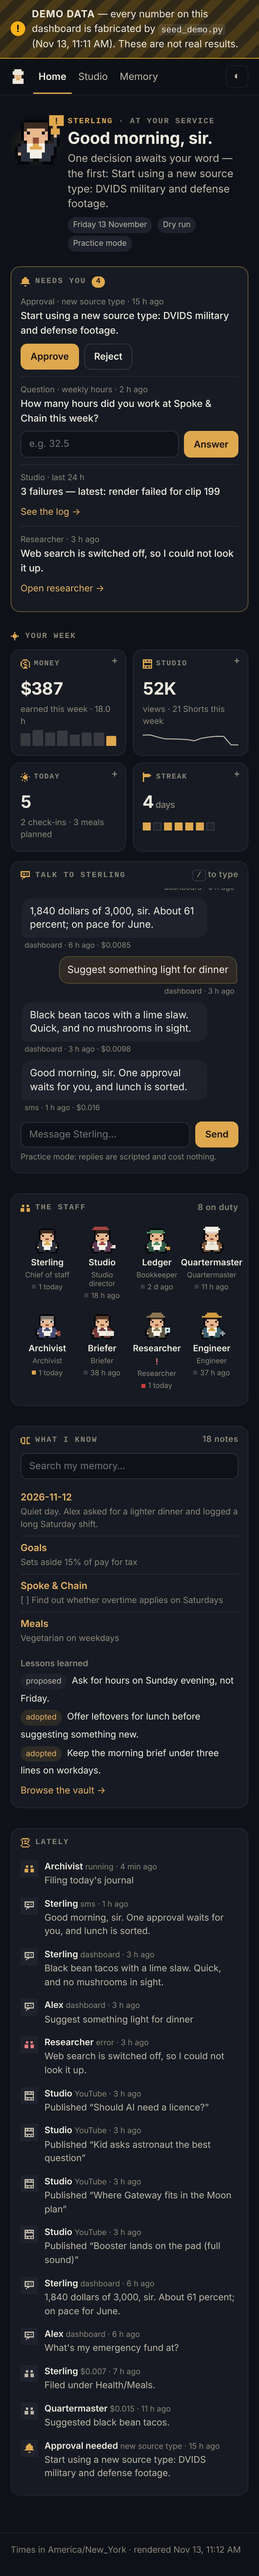
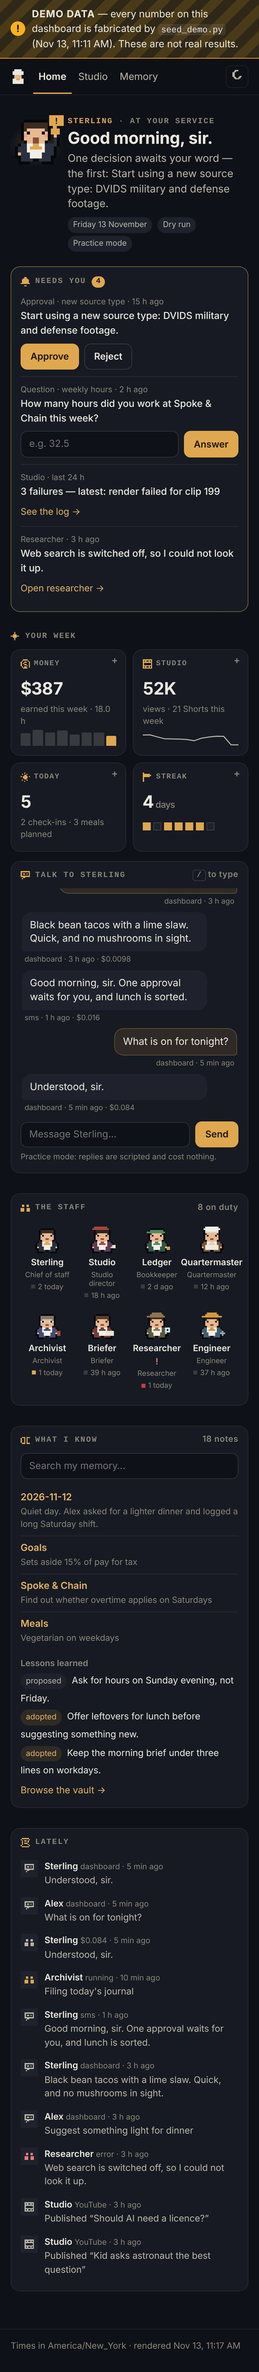
Add check-ins, income ledger and meals; wire the assistant into SMS and scheduler
Texts the owner on a routine (morning brief, Friday hours question,
evening wrap, onboarding one question a day), logs hours into a Decimal
income ledger, learns meal preferences before suggesting anything, and
hands free-form SMS to the assistant after the existing security checks.
Assistant spend no longer counts against the pipeline cap.

Claude-Session: https://claude.ai/code/session_01CTdXEsJLHEEpjadSLrT39k

diff --git a/main.py b/main.py
@@ -607,6 +607,10 @@ def assistant_job_specs() -> list[JobSpec]:
         JobSpec("assistant_checkins", checkins.send_due, "interval", {"minutes": 5}, "send due check-ins"),
         JobSpec("assistant_tidy", tidy, "cron", {"day_of_week": "sun", "hour": 4, "minute": 15},
                 "archivist memory tidy"),
+        JobSpec("assistant_improve", lambda: __import__("assistant.improve", fromlist=["x"]).weekly_improvement(),
+                "cron", {"day_of_week": "sun", "hour": 19, "minute": 25}, "weekly self-improvement proposals"),
+        JobSpec("assistant_evals", lambda: __import__("assistant.evals", fromlist=["x"]).run_evals_isolated(),
+                "cron", {"hour": 2, "minute": 45}, "nightly assistant evals"),
     ]
 
 
@@ -919,6 +923,10 @@ def assistant_cli(args: argparse.Namespace) -> int:
 
     a = get_assistant_settings()
     store.init_store()
+    if args.acmd in ("evals", "improve"):
+        import importlib
+
+        return int(importlib.import_module(f"assistant.{args.acmd}").main(args.rest) or 0)
     if args.acmd == "validate":
         errs = registry.validate_all(tools.known_tool_names())
         skills = registry.load_skills(strict=False)
@@ -1074,6 +1082,9 @@ def _parser() -> argparse.ArgumentParser:
     p.add_argument("--schedule", choices=["weekly", "biweekly", "semimonthly", "monthly"])
     p.add_argument("--tax", type=float, help="tax set-aside, e.g. 0.2 or 20")
     asub.add_parser("plan", help="plan and show today's check-ins")
+    for name in ("evals", "improve"):
+        p = asub.add_parser(name, help=f"pass-through to assistant.{name} (see its --help)", add_help=False)
+        p.add_argument("rest", nargs=argparse.REMAINDER)
     return ap
 
 

diff --git a/tests/test_assistant_runtime.py b/tests/test_assistant_runtime.py
@@ -101,7 +101,8 @@ def test_invalid_arguments_and_crashing_tools_do_not_kill_the_turn(fake_model, c
     def boom(ctx, args):
         raise RuntimeError("bug")
 
-    tools.register(tools.Tool("ledger_summary", "test", {"type": "object", "properties": {}}, boom))
+    tools.load_extensions()  # the real ledger module registers first; this test swaps in a crashing stand-in
+    tools.register(tools.Tool("ledger_summary", "test", {"type": "object", "properties": {}}, boom), replace=True)
     fake_model.queue([fake_tool("memory_search"), fake_tool("ledger_summary")], "Fine.")
     res = runtime.run_turn("summary", channel="sms")
     assert res.status == "ok" and res.text == "Fine."
@@ -113,9 +114,10 @@ def test_registered_extension_tools_are_offered(fake_model, clock):
     def log_hours(ctx, args):
         return {"logged": args["hours"]}
 
+    tools.load_extensions()  # the real ledger registers first; this test swaps in a stand-in
     tools.register(tools.Tool("ledger_log_hours", "Log hours", {
         "type": "object", "properties": {"hours": {"type": "number"}}, "required": ["hours"]}, log_hours,
-        owner="assistant.ledger"))
+        owner="assistant.ledger"), replace=True)
     with pytest.raises(ValueError):
         tools.register(tools.Tool("ledger_log_hours", "dup", {"type": "object"}, lambda c, a: None))
     with pytest.raises(ValueError):
